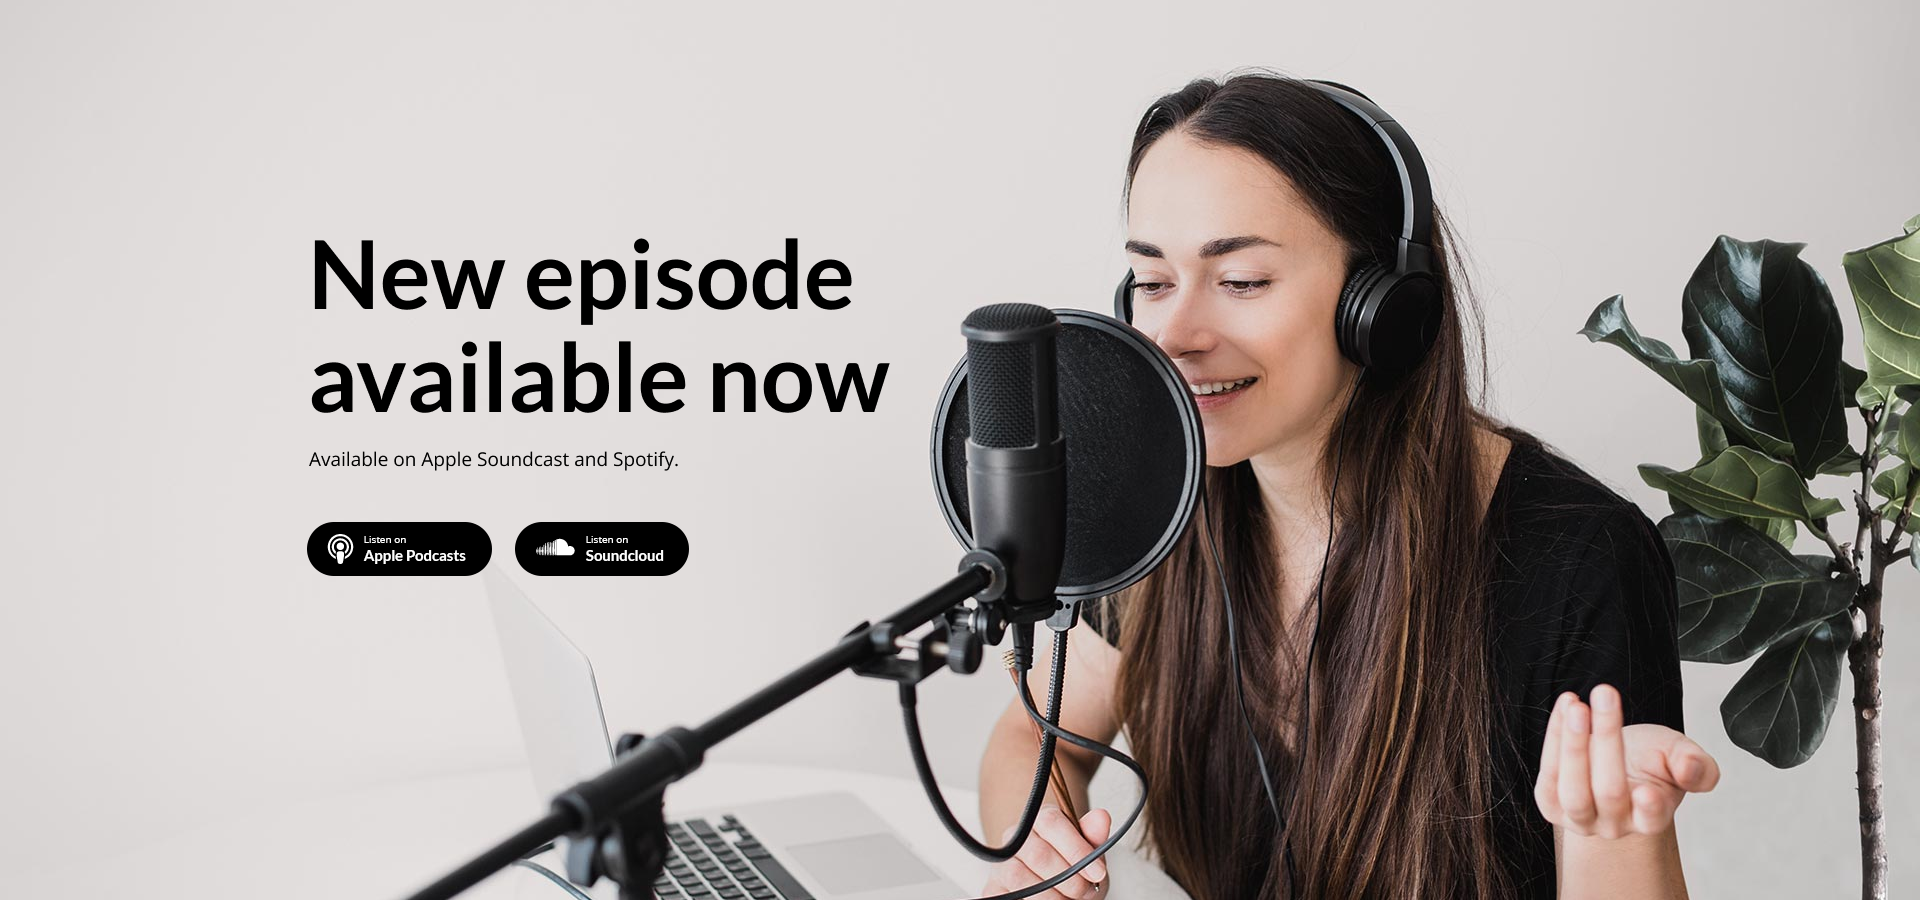
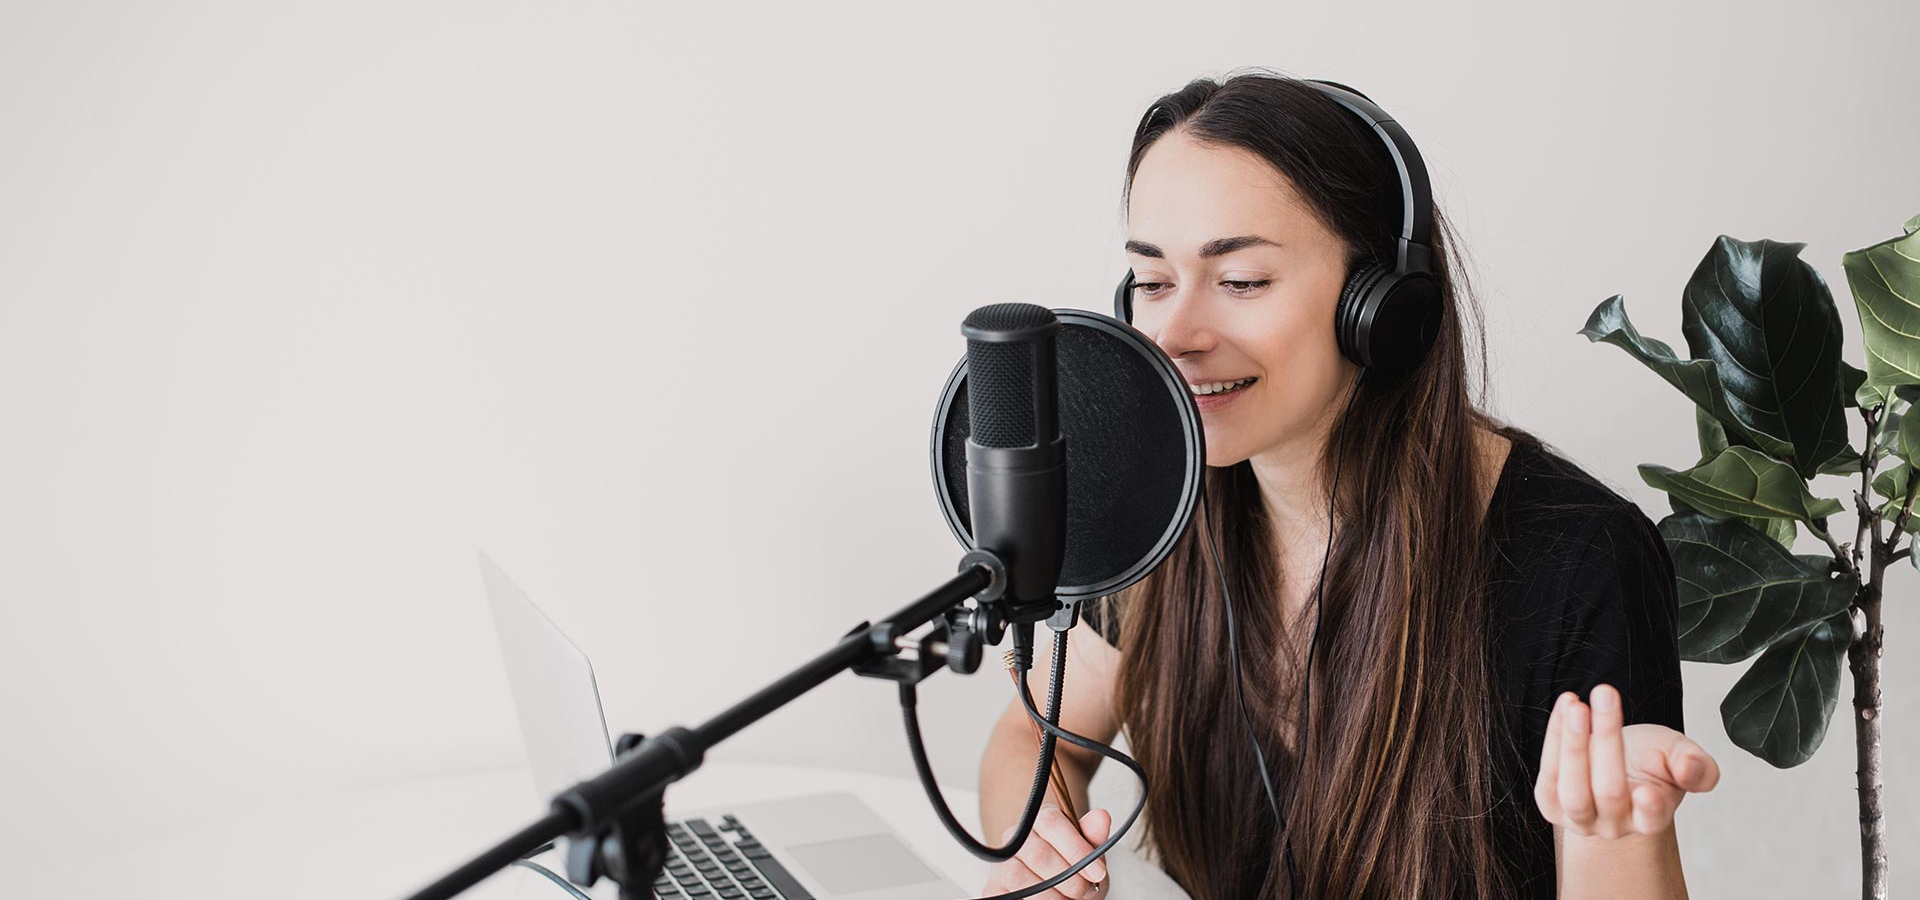
Navbar add

Changed region(s): [[0.1562, 0.2489, 0.4688, 0.4667], [0.1562, 0.56, 0.375, 0.6533], [0.1562, 0.4978, 0.3438, 0.5289]]

diff --git a/style/style.css b/style/style.css
@@ -1,10 +1,18 @@
 @import url('https://fonts.googleapis.com/css2?family=Lato:wght@300;400;700;900&family=Open+Sans:wght@300;400;500;600;700;800&display=swap');
 
+:root{
+    --text-main: rgb(36, 36, 36);
+    --text-light: #8E8B8C;
+    --text-light-footer: #CCCCCC;
+    --text-white: #fff;
+}
+
 
 * {
     padding: 0;
     margin: 0;
     box-sizing: border-box;
+    /* overflow-x: hidden; */
 }
 
 html {
@@ -13,7 +21,77 @@ html {
 
 body {
     font-family: 'Lato', sans-serif;
-    font-family: 'Open Sans', sans-serif;
+    font-size: 1.4rem;
+    color: var(--text-main);
 
-    
 }
+
+a{
+    color: var(--text-main);
+    text-decoration: none;
+}
+
+li{
+    list-style: none;
+    padding: 0;
+    margin-right: 0;
+}
+
+.mr-05{
+    margin-right: .5rem;
+}
+
+.current-page{
+    /* text-decoration: underline; */
+
+    border-bottom: 2px solid var(--text-main);
+}
+/* ====================================== */
+
+
+/* Hero Sectio */
+.hero__section {
+    background: url(../images/resonator-hero.png);
+    background-repeat: no-repeat;
+    background-position: center;
+    background-size: cover;
+    max-width: 100%;
+    height: 100vh;
+}
+
+/* Navbar */
+.hero__section nav{
+    display: flex;
+    justify-content: space-between;
+    align-items: center;
+    max-width: 1440px;
+    margin: 0 auto;
+    padding-top: 3rem;
+    position: sticky;
+    top: 0;
+}
+
+.hero__section nav a img {
+    height: 1.5rem;
+}
+
+.hero__section nav .nav__middle ul{
+    display: flex;
+    align-items: center;
+    gap: 2rem;
+}
+
+.hero__section nav .nav__right ul{
+    display: flex;
+    align-items: center;
+    gap: 2rem;
+    cursor: pointer ;
+}
+ 
+.hero__section nav .nav__middle ul li,
+.hero__section nav .nav__right ul li{
+    display: flex;
+    align-items: center;
+}
+/* ============================================ */
+

diff --git a/index.html b/index.html
@@ -11,6 +11,60 @@
 
 <body>
 
+
+    <!-- Hero section -->
+    <section class="hero__section">
+        <!-- Hero image add in css as a background -->
+
+        <!-- Navbar -->
+        <nav>
+            <a href="/"><img src="images/logo.png" alt=""></a>
+
+            <div class="nav__middle">
+                <ul>
+                    <a href="#" class="current-page">
+                        <li>Home</li>
+                    </a>
+                    <a href="#">
+                        <li>Pages</li>
+                    </a>
+                    <a href="#">
+                        <li>Podcast</li>
+                    </a>
+                    <a href="#">
+                        <li>Blog</li>
+                    </a>
+                    <a href="#">
+                        <li>Shop</li>
+                    </a>
+                </ul>
+            </div>
+
+            <div class="nav__right">
+                <ul>
+                    <li> <ion-icon class="mr-05" name="search-outline"></ion-icon> Search</li>
+                    <li><ion-icon name="apps-outline"></ion-icon></li>
+                </ul>
+            </div>
+        </nav>
+
+    </section>
+
+
+    <section>
+
+    </section>
+
+
+
+
+
+
+
+    <!-- <ion-icon name="headset-sharp"></ion-icon> -->
+
+    <script type="module" src="https://unpkg.com/ionicons@7.1.0/dist/ionicons/ionicons.esm.js"></script>
+    <script nomodule src="https://unpkg.com/ionicons@7.1.0/dist/ionicons/ionicons.js"></script>
 </body>
 
 </html>
